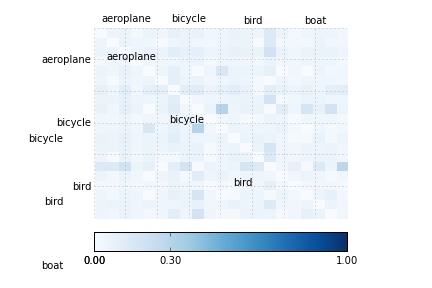
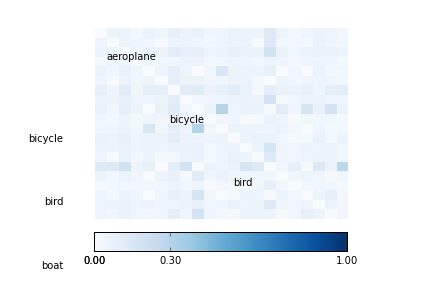
seems to work right now but oging tomess more

diff --git a/synthetic/temp_viz2.py b/synthetic/temp_viz2.py
@@ -1,0 +1,115 @@
+from common_imports import *
+import matplotlib.ticker as ticker
+import matplotlib.colors as colors
+from mpl_toolkits.axes_grid import make_axes_locatable
+from nitime.utils import triu_indices
+
+def drawmatrix_channels(df, x_tick_rot=90,
+                        size=None, cmap=plt.cm.gray_r,
+                        color_anchor=[0,1], title=None):
+    
+    m = df.corr().abs()
+    N = m.shape[0]
+
+    # clear diagonal (all 1s)
+    np.fill_diagonal(m.as_matrix(),np.nan)
+
+    # Compute normalized occurences
+    prior = 1.*df.sum()/df.sum().sum()
+    m.insert(N,'prior',prior)
+
+    channel_names = m.columns
+
+    def channel_formatter(x, pos=None):
+        thisind = np.clip(int(x), 0, N - 1)
+        return channel_names[thisind]
+
+    fig = plt.figure()
+
+    if size is not None:
+        fig.set_figwidth(size[0])
+        fig.set_figheight(size[1])
+
+    ax_im = fig.add_subplot(1, 1, 1)
+
+    divider = make_axes_locatable(ax_im)
+    ax_cb = divider.new_vertical(size="10%", pad=0.1, pack_start=True)
+    fig.add_axes(ax_cb)
+
+    #Extract the minimum and maximum values for scaling of the
+    #colormap/colorbar:
+    max_val = np.nanmax(m)
+    min_val = np.nanmin(m)
+
+    if color_anchor is None:
+        color_min = min_val
+        color_max = max_val
+    elif color_anchor == 0:
+        bound = max(abs(max_val), abs(min_val))
+        color_min = -bound
+        color_max = bound
+    else:
+        color_min = color_anchor[0]
+        color_max = color_anchor[1]
+
+    print(max_val,min_val,color_max,color_min)
+
+    #The call to imshow produces the matrix plot:
+    cmap=plt.cm.jet
+    im = ax_im.imshow(m, origin='upper', interpolation='nearest',
+       vmin=color_min, vmax=color_max, cmap=cmap)
+
+    #Formatting:
+    ax = ax_im
+    #ax.grid(True)
+    #Label each of the cells with the row and the column:
+    for i in xrange(0, m.shape[1]): # x labels
+      ax.text(i, -1, channel_names[i],
+        rotation=x_tick_rot,verticalalignment='bottom')
+    for i in xrange(0, m.shape[0]): # y labels
+      ax.text(-1, i, channel_names[i], horizontalalignment='right')
+
+    ax.set_axis_off()
+    ax.set_xticks(np.arange(N))
+    ax.xaxis.set_major_formatter(ticker.FuncFormatter(channel_formatter))
+    fig.autofmt_xdate(rotation=x_tick_rot)
+    ax.set_yticks(np.arange(N))
+    ax.set_yticklabels(channel_names)
+    ax.set_ybound([-0.5, N - 0.5])
+    ax.set_xbound([-0.5, N + 0.5])
+
+    #Make the tick-marks invisible:
+    for line in ax.xaxis.get_ticklines():
+        line.set_markeredgewidth(0)
+
+    for line in ax.yaxis.get_ticklines():
+        line.set_markeredgewidth(0)
+
+    if title is not None:
+        ax.set_title(title)
+
+    #The following produces the colorbar and sets the ticks
+    #Set the ticks - if 0 is in the interval of values, set that, as well
+    #as the maximal and minimal values:
+    if min_val < 0:
+        ticks = [color_min, min_val, 0, max_val, color_max]
+    #Otherwise - only set the minimal and maximal value:
+    else:
+        ticks = [color_min, min_val, max_val, color_max]
+
+    # line separating prior
+    l = mpl.lines.Line2D([N-0.48,N-0.48],[-.48,N-0.48],ls='--',c='gray')
+    l = ax.add_line(l)
+
+    #This makes the colorbar:
+    cb = fig.colorbar(im, cax=ax_cb, orientation='horizontal',
+                      cmap=cmap,
+                      norm=im.norm,
+                      boundaries=np.linspace(color_min, color_max, 256),
+                      ticks=ticks,
+                      format='%.2f')
+    return fig
+
+cmap = plt.cm.Blues
+df = DataFrame.load('temp2.df')
+f = drawmatrix_channels(df,size=(10,10))

diff --git a/synthetic/temp_viz.py b/synthetic/temp_viz.py
@@ -38,13 +38,14 @@ color_max = 1.
 im = ax.imshow(data, origin='upper', interpolation='nearest',
   vmin=color_min, vmax=color_max, cmap=cmap)
 
-for i in xrange(0, data.shape[0]):
-            if i < (data.shape[0] - 1):
-                ax.text(i - 0.3, i, df.columns[i], rotation=0)
-            if i > 0:
-                ax.text(-1, i + 0.3, df.columns[i],
-                        horizontalalignment='right')
+for i in xrange(0, N):
+  if i < (data.shape[0] - 1):
+    ax.text(i - 0.3, i, df.columns[i], rotation=0)
+  if i > 0:
+    ax.text(-1, i + 0.3, df.columns[i],
+      horizontalalignment='right')
 
+ax.set_axis_off()
 ax.set_xticks(np.arange(N+1))
 ax.xaxis.set_major_formatter(ticker.FuncFormatter(channel_formatter))
 

diff --git a/synthetic/common_imports.py b/synthetic/common_imports.py
@@ -20,8 +20,10 @@ from sklearn.cross_validation import KFold
 from pandas import Series,DataFrame,Panel
 
 import numpy as np
+import matplotlib as mpl
 import scipy.stats as st
 import matplotlib.pyplot as plt
-import synthetic.util as ut
+
+#import synthetic.util as ut
 
 from synthetic.common_mpi import *
